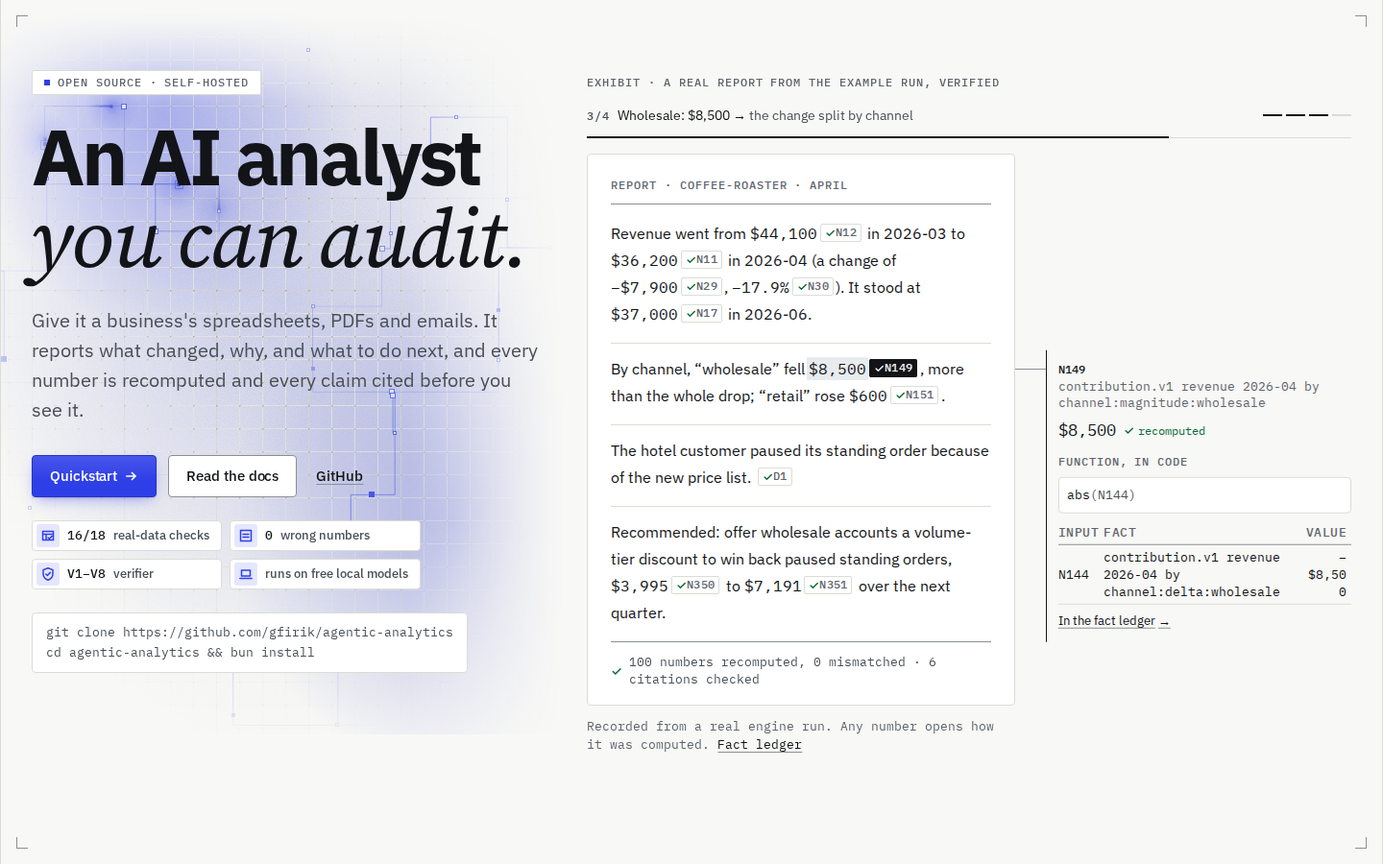
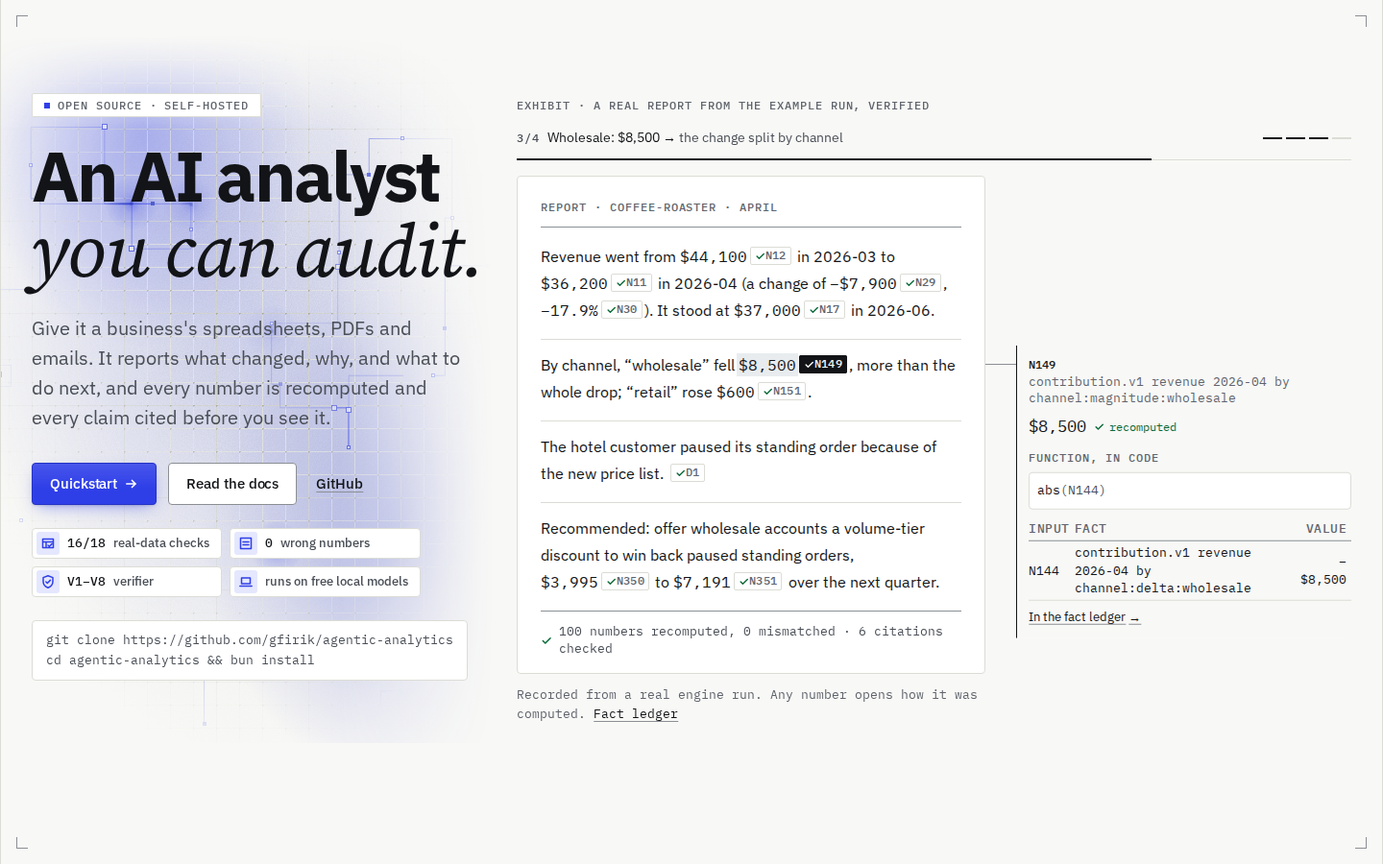
feat(site): fit the pinned hero on laptop screens (down to 680px tall)
The whole-hero pin now works at 1280x720, 1366x768, 1440x900 and
1536x864 with browser chrome; only below 680px of viewport height does
it fall back to the tap list. Pinned under 900px of height the hero
goes compact (sizes only, chosen before first paint, same font faces):
the headline also follows the screen's height, the lead and statement
gaps tighten, the report page sets closer and the notes' SQL stays
folded. From 1280px wide the pinned exhibit column is at least 48rem so
its notes sit beside the report page. The pinned row drops its bottom
padding, trimming the gap under the exhibit's caption on release.

Adds a browser test that the hero pins and steps at 1280x720, 1366x768
and 1536x730 and is the tap list below 680px, and laptop-size
screenshots.

Changed region(s): [[0.0, 0.0622, 0.8438, 0.8711], [0.7188, 0.4044, 0.9688, 0.7467], [0.25, 0.7778, 0.3438, 0.8089]]

diff --git a/scripts/site/browser/site.spec.ts b/scripts/site/browser/site.spec.ts
@@ -305,6 +305,54 @@ test("hero: at 1440 the exhibit pins and each scroll step opens the next figure'
   expect(engineTop - captionBottom, "no large empty block under the hero").toBeLessThan(160);
 });
 
+test("hero: on laptop screens the whole hero still pins and steps (1280×720, 1366×768, 1536×730); under 680px of height it is the tap list", async ({
+  browser,
+}) => {
+  for (const [width, height] of [
+    [1280, 720],
+    [1366, 768],
+    [1536, 730],
+  ] as const) {
+    const ctx = await browser.newContext({ viewport: { width, height } });
+    const page = await ctx.newPage();
+    await page.goto(LANDING, { waitUntil: "networkidle" });
+    await page.evaluate(() => document.fonts.ready);
+    const wrap = page.locator("[data-exhibit]");
+    await expect(wrap, `${width}×${height}`).toHaveAttribute("data-walk", "pin");
+    const steps = JSON.parse((await wrap.getAttribute("data-steps")) ?? "[]") as string[];
+    const row = page.locator(".aa-hero-row");
+    expect(await row.evaluate((el) => getComputedStyle(el).position)).toBe("sticky");
+    for (let k = 1; k <= steps.length; k++) {
+      const y = await page
+        .locator(`[data-walk-sentinel="${k}"]`)
+        .evaluate((el, h) => el.getBoundingClientRect().top + window.scrollY - h * 0.65 + 40, height);
+      await jumpTo(page, y);
+      await expect.poll(() => shownStep(page), { timeout: 3_000 }).toBe(k);
+      expect(Math.round(await row.evaluate((el) => el.getBoundingClientRect().top)), `${width}×${height} step ${k} pinned`).toBe(0);
+      await expect(page.locator(".aa-note.is-open")).toHaveAttribute("id", `aa-note-${steps[k - 1]}`);
+      // Everything that matters is on the short screen: the headline, the install line, the step bar, the report
+      // page's last line and the open note.
+      for (const sel of [".aa-hero-title", ".aa-hero-cmd-frame", ".aa-walk-bar", ".aa-exhibit-foot", ".aa-note.is-open"]) {
+        const r = await page.locator(sel).evaluate((el) => {
+          const b = el.getBoundingClientRect();
+          return { top: b.top, bottom: b.bottom };
+        });
+        expect(r.top, `${width}×${height} step ${k}: ${sel}`).toBeGreaterThanOrEqual(0);
+        expect(r.bottom, `${width}×${height} step ${k}: ${sel}`).toBeLessThanOrEqual(height);
+      }
+    }
+    await ctx.close();
+  }
+  // Below 680px of viewport height the hero doesn't pin: the steps are the tap list.
+  const ctx = await browser.newContext({ viewport: { width: 1440, height: 660 } });
+  const page = await ctx.newPage();
+  await page.goto(LANDING, { waitUntil: "networkidle" });
+  await expect(page.locator("[data-exhibit]")).toHaveAttribute("data-walk", "tap");
+  expect(await page.locator(".aa-hero-row").evaluate((el) => getComputedStyle(el).position)).not.toBe("sticky");
+  await expect(page.locator(".aa-walk-list details")).not.toHaveCount(0);
+  await ctx.close();
+});
+
 test("hero: keyboard scrolling (Page Down, Space) steps the pinned walkthrough, announced; no step control exists", async ({ page }) => {
   await page.setViewportSize({ width: 1440, height: 900 });
   await page.goto(LANDING, { waitUntil: "networkidle" });

diff --git a/apps/docs/scripts/site-screenshots.ts b/apps/docs/scripts/site-screenshots.ts
@@ -9,8 +9,9 @@
 //                                                set to light and to dark (the site is light only, so both must
 //                                                match), named hero-<width>-<scheme>.png (site v5)
 //   tsx scripts/site-screenshots.ts --story --out dir → the scroll-driven walkthrough (site v5 PR 2): at 1920 and 1440
-//                                                the pinned exhibit at each step and the release into the engine
-//                                                machine, at 390 the stacked tap list (pr2-<width>-<what>.png)
+//                                                the pinned hero at each step and the release into the engine
+//                                                machine, also at 1366×768 and 1280×720; at 390 the stacked tap
+//                                                list (pr2-<width>[x<height>]-<what>.png)
 //   tsx scripts/site-screenshots.ts --record   → hero.gif: the hero's verification on load, then the walkthrough
 //                                                stepped by scrolling through the pinned exhibit, and a hover
 //                                                (needs ffmpeg; without it hero.webm is kept)
@@ -167,7 +168,11 @@ try {
     for (const [width, height] of [
       [1920, 1080],
       [1440, 900],
+      [1366, 768],
+      [1280, 720],
     ] as const) {
+      // Laptop sizes are named with their height (the pin must fit a short screen).
+      const tag = height === 1080 || height === 900 ? `${width}` : `${width}x${height}`;
       const ctx = await browser.newContext({ viewport: { width, height }, deviceScaleFactor: 1 });
       const page = await ctx.newPage();
       await page.goto(`${base}/`, { waitUntil: "networkidle" });
@@ -179,12 +184,12 @@ try {
       for (let k = 1; k <= n; k++) {
         await page.evaluate((y) => window.scrollTo({ top: y, behavior: "instant" }), await stepAt(page, k));
         await page.waitForTimeout(500);
-        await page.screenshot({ path: join(out, `pr2-${width}-step${k}.png`) });
+        await page.screenshot({ path: join(out, `pr2-${tag}-step${k}.png`) });
       }
       // Past the track: the pin has let go and the engine machine's band follows.
       await page.evaluate((y) => window.scrollTo({ top: y, behavior: "instant" }), (await stepAt(page, n)) + Math.round(height * 0.9));
       await page.waitForTimeout(800);
-      await page.screenshot({ path: join(out, `pr2-${width}-release.png`) });
+      await page.screenshot({ path: join(out, `pr2-${tag}-release.png`) });
       await ctx.close();
     }
     const ctx = await browser.newContext({ viewport: { width: 390, height: 844 }, deviceScaleFactor: 1 });

diff --git a/docs/progress/STATE.md b/docs/progress/STATE.md
@@ -58,7 +58,7 @@ Since 2026-10-21 (maintainer's standing instruction): work through the whole pla
 | Site v4 PR 3: motion across the landing page | AWAITING_REVIEW (draft PR) | notify | [#72](https://github.com/gfirik/agentic-analytics/pull/72) (draft) | `bun run --filter @agentic-analytics/docs build && PW_CHANNEL=chrome bun run site:check:browser` (the "motion" tests); screenshots in `docs/plans/site-v4/pr3-*.png` | The plan `docs/plans/site-v4.md` §PR 3: §1–§4's head and visual fade and rise into place once as they first scroll in (240ms, opacity and transform only; only what is below the screen at load; never the hero or the engine band); the pipeline rail is a connector (2px segment + node per stop) that draws in stop by stop the first time it scrolls into view on the landing page, and Play/stops still step it; the exhibit's figures count up to their recorded values (CSS overlay over the unchanged real text) and then verify, ≤ 2.5s; 150ms hovers on links, chips, buttons, §3 rows, §4 doors, "more" arrows; wide-row heads sticky from 1100px. All off under reduced motion; final state without JS. Fixed on the way: the engine card's text shifting at its scroll stops on phones (CLS through the page at 390: 0.047 → 0.006), and a pinned note lost to hover during its own scroll-into-view. DESIGN.md §2.5, §5, §6, §7, §10 rewritten. Lighthouse `/`: mobile 96/100/100/100 CLS 0, desktop 100/100/100/100 CLS 0.00003, same-origin only; browser suite 60/60; gate PASS |
 | Site v5 PR 1: hero backgrounds and type polish | DONE (merged 2026-10-22, 3a97d72) | notify | [#85](https://github.com/gfirik/agentic-analytics/pull/85) | `bun run --filter @agentic-analytics/docs build && bash scripts/heavy.sh bun run site:check:browser` (the "hero field" tests); `tsx apps/docs/scripts/site-screenshots.ts --hero --out <dir>`; screenshots in `docs/plans/site-v5/pr1-*.png` | The plan `docs/plans/site-v5.md` §PR 1: the hero statement stands on its own field (`HeroField.astro`): a white core inside a faint cool haze (`--aa-glow`), graph paper (24px minor, 96px major, a dot on every crossing) fading radially from the statement, inline SVG grain, and a canvas net of drifting square nodes with elbowed hairline connectors (idle start, IntersectionObserver + visibility pause, ≤ 30 fps, DPR ≤ 2 and ≤ 1.6 Mpx, a Pause control; none under reduced motion, Save-Data or without JS). Framed corner marks on the hero frame. Display 40–68px fluid, set closer; larger hero lead; eyebrow as a tag; buttons reworked (raised secondary, arrow on the primary). The exhibit is unchanged. Lighthouse `/` (2 mobile runs, 1 desktop): mobile 96/100/100/100 CLS 0, desktop 100/100/100/100 CLS 0; browser suite 64/64 (CLS through the page 0.0046 at 1440, 0.0059 at 390); same-origin only |
 | Site v5 PR 1b: a bolder hero | DONE (merged 2026-10-22, 09636ae) | notify | [#86](https://github.com/gfirik/agentic-analytics/pull/86) | `bun run --filter @agentic-analytics/docs build && bash scripts/heavy.sh bun run site:check:browser` (the "hero" tests); `tsx apps/docs/scripts/site-screenshots.ts --hero --out <dir>`; before/after in `docs/plans/site-v5/pr1b-{before,after}-hero-{1920,1440,390}.png` | The maintainer: "still too flat and restrained, be bold". The hero only: one brand accent, cobalt (`--aa-accent` #2f3fe8, `-deep`, `-wash`; replaces `--aa-glow`), as a visible glow (≤ 22% of the accent behind text: lead ≥ 5.1:1, headline ≥ 9:1, measured), the net's nodes and connectors, the proof chips' icons and the primary button (a soft gradient of the accent). Two-voice headline, `--aa-text-hero` (81px at 1440, 84px wider, 44px on phones, capped at 16cqi so each voice stays one line): Plex Sans 700 (new latin file, 23 KB) and the serif italic, both preloaded on `/` with metric-matched fallback faces. Proof chips under the actions, generated by `proofChips()` (16/18 real-data checks, 0 wrong numbers, V1–V8 verifier, runs on free local models), each linked with its source file. The net: 16–64 nodes, connectors that draw in, accent pulses that run toward the exhibit and hop node to node; still ≤ 30 fps and paused off-screen, hidden tab, Pause; absent under reduced motion/no JS. The eyebrow is one line at 390/360; Pause has its own slot (≥ 32px above the exhibit's label). Lighthouse `/`: mobile 95/100/100/100 CLS 0 (LCP 2.6s, TBT 20ms), desktop 100/100/100/100 CLS 0; same-origin only |
-| Site v5 PR 2: scroll-driven story into the 3D machine | IN_REVIEW (PR open) | notify | [#87](https://github.com/gfirik/agentic-analytics/pull/87) | `bun run --filter @agentic-analytics/docs build && bash scripts/heavy.sh bun run site:check:browser` (the "hero" tests); `tsx apps/docs/scripts/site-screenshots.ts --story --out <dir>`; screenshots in `docs/plans/site-v5/pr2-*.png` | The whole hero (statement and exhibit) pins from 1100px, when it fits the screen, while a scroll track below it passes; each scroll step activates the next figure and opens its note (1/4 → 4/4), with step marks and a scroll-driven progress rule; after step 4 the pin releases straight into the engine machine. No step controls at all (no timer, Pause, Replay, prev or next): only the scroll moves it, keyboard scrolling included, with soft cross-fades. The hero field's Pause control is removed (WCAG 2.2.2 trade-off accepted by the maintainer). Under 1100px the steps are a list that opens on tap; reduced motion and no JS, the static list with every note open. §1's head trimmed (no longer repeats the machine). The install line wraps after `github.com/` at 390 instead of clipping. Lighthouse `/` (2 runs each): mobile 95 and 97/100/100/100 CLS 0, desktop 100/100/100/100 CLS 0; CLS through the page with CI-like fonts 0.0046 at 1440, 0.0072 at 390; axe clean (reduced motion, and live: pinned at 1440, tap list at 390); same-origin only |
+| Site v5 PR 2: scroll-driven story into the 3D machine | IN_REVIEW (PR open) | notify | [#87](https://github.com/gfirik/agentic-analytics/pull/87) | `bun run --filter @agentic-analytics/docs build && bash scripts/heavy.sh bun run site:check:browser` (the "hero" tests); `tsx apps/docs/scripts/site-screenshots.ts --story --out <dir>`; screenshots in `docs/plans/site-v5/pr2-*.png` | The whole hero (statement and exhibit) pins from 1100px wide and 680px of viewport height (compact under 900px of height; pins at 1280×720, 1366×768 and 1536×730), when it fits the screen, while a scroll track below it passes; each scroll step activates the next figure and opens its note (1/4 → 4/4), with step marks and a scroll-driven progress rule; after step 4 the pin releases straight into the engine machine. No step controls at all (no timer, Pause, Replay, prev or next): only the scroll moves it, keyboard scrolling included, with soft cross-fades. The hero field's Pause control is removed (WCAG 2.2.2 trade-off accepted by the maintainer). Under 1100px the steps are a list that opens on tap; reduced motion and no JS, the static list with every note open. §1's head trimmed (no longer repeats the machine). The install line wraps after `github.com/` at 390 instead of clipping. Lighthouse `/` (2 runs each): mobile 95 and 97/100/100/100 CLS 0, desktop 100/100/100/100 CLS 0; CLS through the page with CI-like fonts 0.0046 at 1440, 0.0072 at 390; axe clean (reduced motion, and live: pinned at 1440, tap list at 390); same-origin only |
 
 Order: M0 → M1 → M2 → M3 → M4 → M5 → M6 → M7 → M8 → M9 → M10 → M11 → M12. In autopilot it runs sequentially. Parallel worktrees are an interactive option only.
 
@@ -429,10 +429,11 @@ These are checks that need something this machine doesn't have yet, such as a re
 - [site v5 PR 2] The maintainer removed the hero field's "Pause background" control (and the statement's reserved slot for it): the net always plays while the hero is on screen, still stops off-screen and in a hidden tab for cost, and is absent under reduced motion, Save-Data and without JS. The maintainer explicitly accepts the WCAG 2.2.2 (Pause, Stop, Hide) trade-off for this decorative motion; DESIGN.md §7 records it — apps/docs/src/components/site/HeroField.astro
 - [site v5 PR 2] The engine machine's tour and explore modes are a separate follow-up PR; this PR only makes the pin release cleanly into its band and doesn't change the machine.
 - [site v5 PR 2] The maintainer, from the live page: the whole hero, not just the exhibit, stays fixed through the four steps. The hero row (the statement with its field, the exhibit and the corner marks) is now one sticky unit, at least a screen tall with its content centred, over a track placed after it in the section; it covers the track the whole time, so no empty block shows under the pinned hero, and the engine machine's band starts right at its bottom edge on release. While pinned, the statement's field fades in over its first 6rem, because centring moves its top edge off the header's hairline. Colours are unchanged. Because the stacked hero (900–1100px) is taller than a screen, the pin now starts at 1100px; below that it is the tap list — apps/docs/src/pages/index.astro, apps/docs/src/components/site/HeroField.astro, Exhibit.astro
+- [site v5 PR 2] The whole-hero pin works on common laptop screens. The threshold for falling back to the tap list is 680px of viewport height (and 1100px of width). Pinned under 900px of height the hero goes compact (sizes only, before first paint, same faces and weights): headline `min(--aa-text-hero, 16cqi, 9svh)`, lead 1.0625rem / 1.5, tighter statement gaps, a closer report page (0.9375rem / 1.6), the notes' SQL folded. From 1280px wide the pinned exhibit column is at least 48rem, so the notes sit beside the report page. Content measured at 1280×720 is 616px, at 1366×768 582px and at 1536×730 568px, so 1280×800, 1366×768, 1440×900 and 1536×864 with browser chrome all pin. The pinned row has no bottom padding, which trims the release gap under the exhibit's caption at 1440×900 from 162 to 146px; the rest is the centring's slack and the tallest note's room — apps/docs/src/pages/index.astro, Exhibit.astro, DESIGN.md §6
 
 ## Known gaps carried forward
 
-- [site v5 PR 2] The exhibit pins only where it fits the window: at about 1280×800 and 1366×768 (exhibit 700–750px wide, notes below the report page, ~890px tall pinned) it falls back to the tap list. Making those pin would need the notes beside the page in a narrower column, or a shorter step bar and caption there.
+- [site v5 PR 2] Between 1100 and 1279px wide the pinned exhibit's notes sit below the report page (the column is under 48rem), so the hero's content is about 820–890px and pins only on a screen that tall; shorter windows at those widths get the tap list. A narrower statement column there would fix it, but at 1100px it would be about 220px wide.
 - [M14 PR 8] The scripted ablation on golden v1 never exercises arm B's answer path: its canned SQL is each item's `sql`, which reads the raw file with `read_csv`, and the locked sandbox refuses that (`SQL_REFUSED`), so arm B scores 0/16 numeric and 3/3 traps as refusals. That shows the containment, not a comparison, and the report says so. Fix: canned arm-B SQL for the real sets written against the sandbox's tables (`t_t1`…), so the scripted golden run also covers arm B's citation re-run.
 - [M14 PR 7] First offline run of the held-out generated set (baseline, 2026-10-22): recall@5 75.0% (18/24; 15/16 reseeded, 3/8 new archetypes), distractor FP 11.5% (3/26), against 96.0% and 0% on the development 30. Engine gaps it shows, to measure again at the next release run rather than tune to this set: (a) the deterministic metric fallback drafts no refund rate from a money column named `Refunds` (car_wash-v1 P1); (b) for Brookvale Homes' agreement, Ringway's roadworks and the Harbour Rd competitor the report has the member's year-on-year change but not the whole-metric change at the event month with that member as driver; (c) the Access fleet improvement (member `equipment_group`) is not reported; (d) false alarms on tool_hire-v2's Christmas shutdown and car_wash-v2's January peak (one December or January in the series, so no earlier year shows the season) and on online_store-v1-heldout's D1 blip.
 - [site v4 PR 3] After #72 merged, the CI runner's motion CLS test saw two layout shifts at 1440 inside the animated parts (scores 0.000004 and 0.000008, at 11.8 s and 12.8 s, during the scroll). Chromium reports only moves of 3 px or more, so these were visible moves of small or mostly off-screen nodes, not rounding. The likely source is the sticky §1/§2 heads (1100px and up only, inside the revealed sections, moving at the end of their row). The test now logs each shift's sources and rects and exempts only shifts whose every source is a sticky head; everything else in the animated parts must still not move. If a CI failure names another node, that node is the bug. The §1/§2 heads are also reveal parts; their reveal is still checked at 390 and on the heads that aren't sticky. The source is not yet confirmed: the earlier CI runs didn't log it, and the size (about 0.000004) fits a head that has almost scrolled off; once a CI run prints the shift lines, record the node here.

diff --git a/apps/docs/DESIGN.md b/apps/docs/DESIGN.md
@@ -223,8 +223,8 @@ The scale (rem, root 16px; mobile values apply under 640px):
     - **How the scroll picks the step:** an IntersectionObserver on the track's sentinels, its root a 1%-tall line 65% down the screen; the step is the last sentinel to cross it (the entry's own box says which way). No scroll listener and no layout read per frame.
     - **The progress rule:** 2px of ink over the step bar's hairline, a scroll-driven animation (`animation-timeline` on the track's view timeline, `--aa-walk-track`, scoped on the hero row; transform only) from the pin's start to step 4. Where scroll-driven animations aren't supported it steps with the walkthrough instead (a custom property the script sets). Four step marks fill as the steps pass.
     - **No step controls (the maintainer's call, site v5 PR 2).** No previous, next, Pause or Replay: the active step changes only with the scroll, softly (the caption, the note and the figure's wash cross-fade over 200ms; opacity and colour only). It stays accessible without buttons: the page's own keyboard scrolling (Page Down, Space, the arrow keys) drives the steps; every figure stays a link in the tab order and opens its note on focus; the step caption is announced (`aria-live="polite"`) on every step, and the step's chip carries `aria-current="step"`.
-    - **Only when it fits.** The hero row's content (the statement beside the exhibit with its step bar, report page and notes) must fit the screen; the inline script measures it once before first paint (and again when the window changes), and otherwise the walkthrough is the tap list below. Pinned, every note shares one grid cell as tall as the tallest, and beside the report page a note is raised just enough to end inside that cell (the leader still meets it). At 1440×900 and 1920×1080 it pins; at about 1280×800 and 1366×768 (the notes below the report page) it doesn't fit and is the tap list. Between 900 and 1100px the hero is stacked, taller than a screen, so it never pins.
-    - **Under 1100px (and where it doesn't fit) nothing is pinned:** the steps stack as a ruled list under the exhibit, each a disclosure that opens on tap (step 1 open); the step bar isn't shown. Tapping a figure still opens its margin note below the report page.
+    - **It fits laptop screens; the threshold is 680px of viewport height.** The whole hero pins from 1100px wide and 680px of viewport height when its content fits; below 680px of height it is the tap list. Pinned on a screen under 900px tall, the hero goes compact, sizes only and chosen before first paint: the headline follows the screen's height (`min(--aa-text-hero, 16cqi, 9svh)`), the lead is 1.0625rem / 1.5, the statement's gaps are tighter, the report page sets closer (0.9375rem / 1.6, tighter rules and padding), and the notes' SQL stays folded behind "show". From 1280px wide the exhibit column is at least 48rem when pinned, so the notes sit beside the report page. Measured content at 1280×720 is 616px, at 1366×768 582px and at 1536×730 568px, so it pins at 1280×800, 1366×768, 1440×900 and 1536×864 with browser chrome (about 730–800px), and at 1280×720. The inline script still checks the fit once before first paint (and on resize): between 1100 and 1279px wide (notes below the report page, about 820–890px of content) it pins only on a screen that tall. Pinned, every note shares one grid cell as tall as the tallest; beside the report page a note is raised just enough to end inside that cell (the leader still meets it). The pinned row has no bottom padding, so the release leaves at most about 150px under the exhibit's caption at 1440×900 (the centring's slack plus the tallest note's room).
+    - **Under 1100px, under 680px of viewport height (and where it doesn't fit) nothing is pinned:** the steps stack as a ruled list under the exhibit, each a disclosure that opens on tap (step 1 open); the step bar isn't shown. Tapping a figure still opens its margin note below the report page.
     - **Beside or below is a container query (site v4)** on the exhibit's own width (`.aa-walk`), not the screen's, because the exhibit sits in the hero's right column from 1100px: beside at 1440 and wider, below between 1100 and about 1410px, beside again from about 840px to 1100px where the hero stacks, and below on phones. The script reads the same width.
     - **Step 1's note is open from the start**, so the margin is never an empty box; its figure isn't marked until step 1.
     - **Notes size to their own content.** Pinned, every note shares one grid cell as tall as the tallest, so the pinned exhibit's height is known before first paint; beside the report page a note sits level with its figure, raised only as far as it must be to end inside that cell (the leader still meets it). Unpinned beside the exhibit, the notes column keeps the room of its tallest note (measured in the browser, again when the fonts arrive or the window changes; it only grows). Each note sits at the top of its room, never stretched, and the step captions share one grid cell too. So stepping never moves the page.

diff --git a/docs/plans/site-v5.md b/docs/plans/site-v5.md
@@ -60,7 +60,7 @@ The maintainer, after PR 1: "it's still too flat and restrained. Be bold this ti
 
 The maintainer's spec (it overrides site v3's D2, "no scroll-pinning"): the hero exhibit tells its story as the reader scrolls instead of on a timer.
 
-1. Pin: from 1100px, when it fits the screen, the whole hero row (statement and exhibit) is one sticky unit, a screen tall, over a scroll track below it in the section (one sentinel per step). Each step's sentinel crossing a line 65% down the screen activates the next figure and opens its note; after step 4 the whole hero releases straight into the engine machine's band with no gap (maintainer's change: the whole hero, not just the exhibit).
+1. Pin: from 1100px, when it fits the screen, the whole hero row (statement and exhibit) is one sticky unit, a screen tall, over a scroll track below it in the section (one sentinel per step). Each step's sentinel crossing a line 65% down the screen activates the next figure and opens its note; after step 4 the whole hero releases straight into the engine machine's band with no gap (maintainer's change: the whole hero, not just the exhibit). It fits laptop screens: compact under 900px of height, tap list only under 680px.
 2. Progress: step marks and a 2px rule driven by the track's view timeline (scroll-driven animation), stepped by the script where unsupported.
 3. Controls: none (the maintainer withdrew prev/next): the timer, Pause, Replay, prev and next all go, and only the scroll moves the steps, keyboard scrolling included; soft cross-fades. The hero field's Pause control goes too (WCAG 2.2.2 trade-off accepted by the maintainer). `aria-live` on the caption, `aria-current="step"` on the step's chip.
 4. Under 1100px (stacked, taller than a screen) and on phones: no pin; the steps stack as a list, each a disclosure that opens on tap. Reduced motion and no JS: the static list, every note open.
